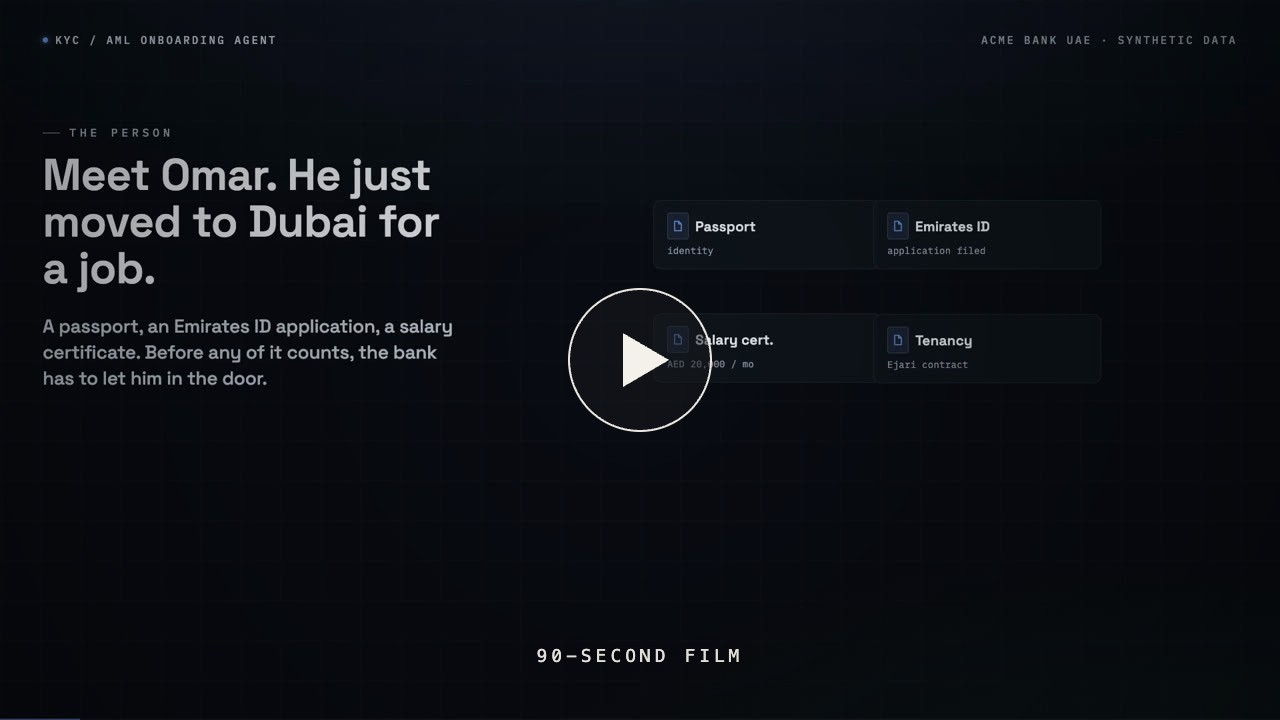
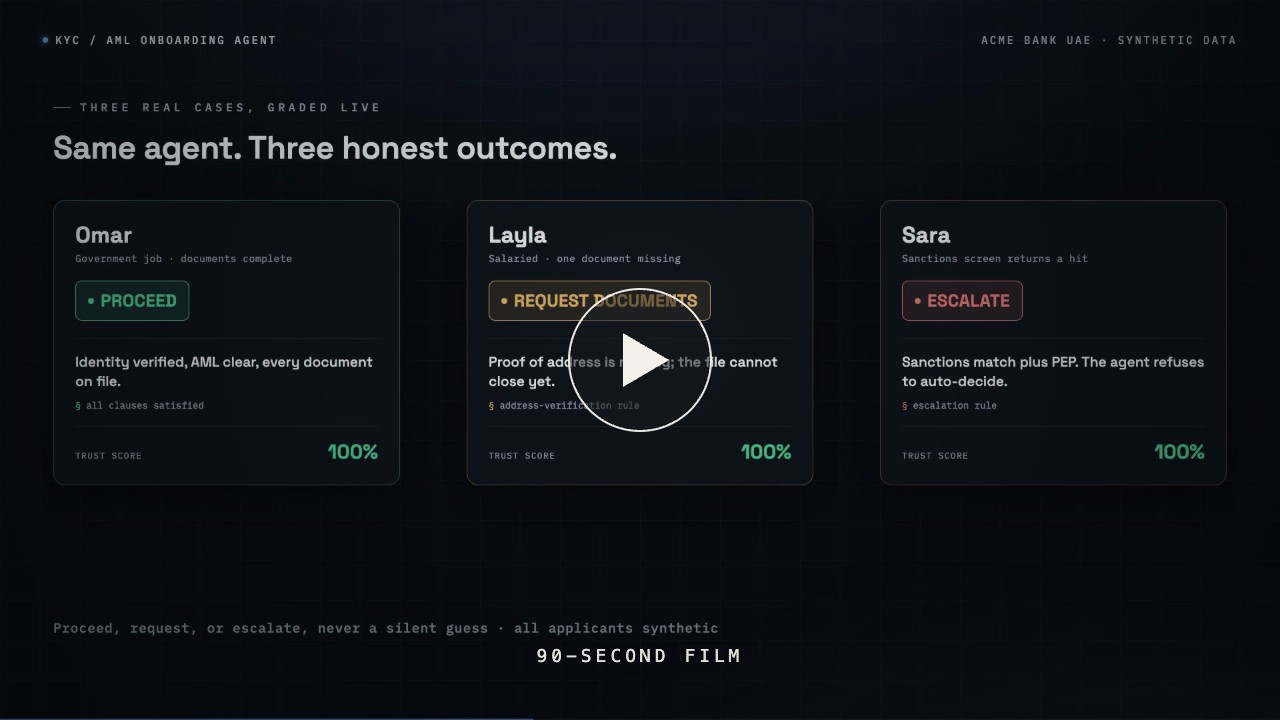
Lead with the decision, not the persona (thumbnail + metadata)
Re-cut the KYC poster/social card to the 'three honest outcomes' frame
(PROCEED / REQUEST DOCUMENTS / ESCALATE, policy-cited, PEP escalates to a
human) instead of the 'Meet Omar' persona shot, so the hook sells the
decisioning engine to the buyer. Reframe og:description toward the platform.

diff --git a/docs/index.html b/docs/index.html
@@ -10,7 +10,7 @@
 <meta property="og:type" content="website">
 <meta property="og:url" content="https://mxjoshi.github.io/kyc-onboarding-agent/">
 <meta property="og:title" content="KYC / AML Onboarding Agent · Case Study">
-<meta property="og:description" content="A trustworthy AI onboarding decision for UAE banking: retrieves the policy, cites every claim, and runs a second LLM-judge trust layer. Synthetic data only.">
+<meta property="og:description" content="A governed onboarding decision engine for UAE banking: retrieves the relevant policy, cites every claim to its section, and an independent LLM-judge rejects ungrounded answers. Sanctions and PEP hits route to a human. Synthetic data only.">
 <meta property="og:image" content="https://mxjoshi.github.io/kyc-onboarding-agent/og-card.jpg">
 <meta name="twitter:card" content="summary_large_image">
 